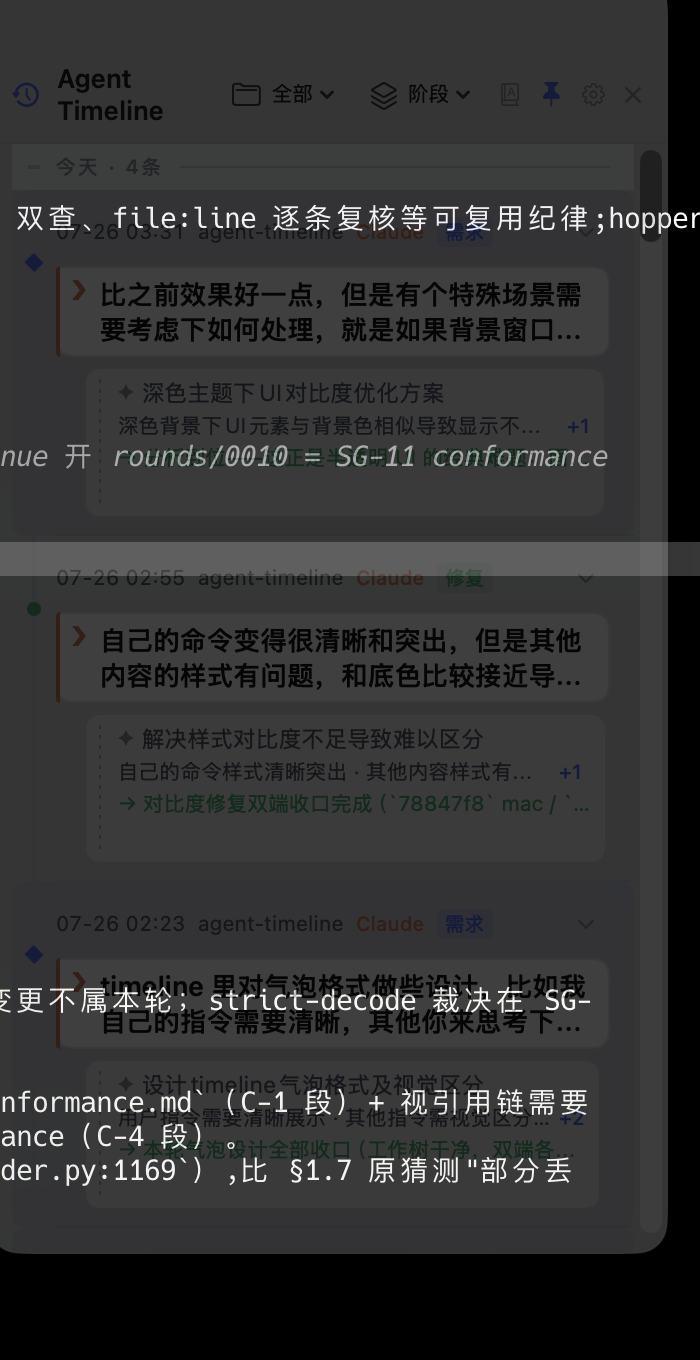
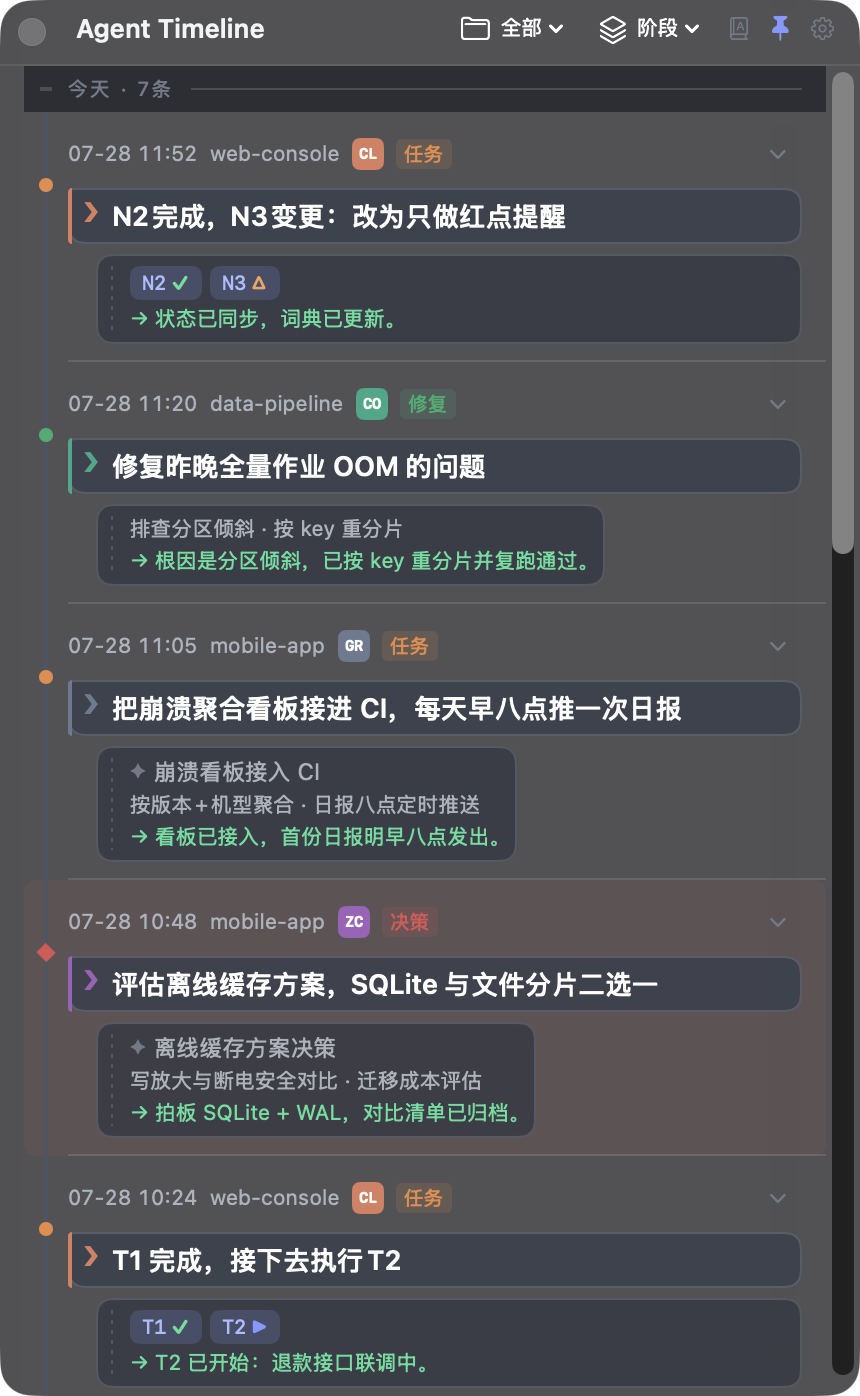
docs: 重拍 README 首图（五家 agent 演示数据，消除背景穿透）
旧图是 scrim 验证期的遗留截图：真实终端文字整片透过半透明面板，
既杂乱又暴露真实会话内容与项目名，违反公开截图的隐私红线。

- 演示数据集补一条 Grok 节点（12 条 / 5 agent × 4 项目），
  docs/DEMO-DATASET.md 与双端 demo-seed.py 同步，win 下次拍摄同源可复现
- 新首图：纯演示库 + 全屏纯色背板拍摄，五家徽标齐（CL/CO/GR/KI/ZC）、
  双墨线台账、kind 彩标、N2✓/N3△/T1✓/T2▶ 代号状态、决策菱形锚点
- 拍摄前后按纪律备份/还原真实 db 与设置，md5 与分 agent 计数逐项核验一致

diff --git a/windows/scripts/demo-seed.py b/windows/scripts/demo-seed.py
@@ -69,6 +69,11 @@ nodes = [
      "修复全量作业 OOM", kp("排查分区倾斜", "按 key 重分片"),
      "[]",
      "根因是分区倾斜，已按 key 重分片并复跑通过。", "修复"),
+    ("grok", "mobile-app", "ma-1", ms(7,27,11,5),
+     "把崩溃聚合看板接进 CI，每天早八点推一次日报",
+     "崩溃看板接入 CI", kp("按版本+机型聚合", "日报八点定时推送"),
+     "[]",
+     "看板已接入，首份日报明早八点发出。", "任务"),
     ("claude", "web-console", "wc-1", ms(7,27,11,52),
      "N2完成，N3变更：改为只做红点提醒",
      "", "[]",

diff --git a/macos/scripts/demo-seed.py b/macos/scripts/demo-seed.py
@@ -73,6 +73,11 @@ nodes = [
      "修复全量作业 OOM", kp("排查分区倾斜", "按 key 重分片"),
      "[]",
      "根因是分区倾斜，已按 key 重分片并复跑通过。", "修复"),
+    ("grok", "mobile-app", "ma-1", ts(0,11,5),
+     "把崩溃聚合看板接进 CI，每天早八点推一次日报",
+     "崩溃看板接入 CI", kp("按版本+机型聚合", "日报八点定时推送"),
+     "[]",
+     "看板已接入，首份日报明早八点发出。", "任务"),
     ("claude", "web-console", "wc-1", ts(0,11,52),
      "N2完成，N3变更：改为只做红点提醒",
      "", "[]",

diff --git a/docs/DEMO-DATASET.md b/docs/DEMO-DATASET.md
@@ -1,7 +1,7 @@
 # 演示数据集（README 截图专用，双端一致）
 
 > 公开截图**禁止使用真实时间线**（含真实项目名与命令原文）。两端拍摄一律灌注本数据集，
-> 内容完全虚构且覆盖全部展示特性：4 agent × 4 项目、六种 kind、代号生命周期全状态、
+> 内容完全虚构且覆盖全部展示特性：5 agent × 4 项目、六种 kind、代号生命周期全状态、
 > 关键点/结果行/✦ 提炼块。Windows 参考实现：`windows/scripts/demo-seed.py`
 > （Windows schema；mac 端按 `macos/Sources/AgentTimeline/Core/Store.swift` 的 schema 适配，
 > 内容以本文为准）。
@@ -9,7 +9,7 @@
 时间基准：D = 拍摄当天，D-1 = 前一天（保证时间线出现 今天/昨天 两个分组）。
 时区按本机本地时区。
 
-## 节点（11 条，倒序展示时今天在上）
+## 节点（12 条，倒序展示时今天在上）
 
 | # | agent | 项目 | 时间 | 命令原文 | 标题(规则档) | 关键点 | kind | 结果行 | 代号(JSON) |
 |---|---|---|---|---|---|---|---|---|---|
@@ -23,6 +23,7 @@
 | 8 | zcode | mobile-app | D 10:48 | 评估离线缓存方案，SQLite 与文件分片二选一 | 离线缓存方案决策 | 写放大与断电安全对比；迁移成本评估 | 决策 | 拍板 SQLite + WAL，对比清单已归档。 | — |
 | 9 | kimi | docs-site | D 9:50 | 把 FAQ 迁移到新目录结构，保留旧链接跳转 | FAQ 目录迁移 | 28 篇批量迁移；旧链接 301 跳转 | 其他 | 迁移完成，跳转规则已配置。 | — |
 | 10 | codex | data-pipeline | D 11:20 | 修复昨晚全量作业 OOM 的问题 | 修复全量作业 OOM | 排查分区倾斜；按 key 重分片 | 修复 | 根因是分区倾斜，已按 key 重分片并复跑通过。 | — |
+| 12 | grok | mobile-app | D 11:05 | 把崩溃聚合看板接进 CI，每天早八点推一次日报 | 崩溃看板接入 CI | 按版本+机型聚合；日报八点定时推送 | 任务 | 看板已接入，首份日报明早八点发出。 | — |
 | 11 | claude | web-console | D 11:52 | N2完成，N3变更：改为只做红点提醒 | （短命令，标题隐去） | — | 任务 | 状态已同步，词典已更新。 | N2 完成 / N3 变更 |
 
 ## 代号词典（6 条）

diff --git a/README.md b/README.md
@@ -12,7 +12,7 @@
 ![.NET](https://img.shields.io/badge/.NET-8-10A37F)
 [![License: MIT](https://img.shields.io/badge/license-MIT-86909C)](LICENSE)
 
-<img src="docs/assets/screenshot-dark.png" width="360" alt="Agent Timeline 半透明浮窗 · 暗色背景" />
+<img src="docs/assets/screenshot-dark.png" width="380" alt="Agent Timeline 半透明浮窗：五家 agent 混排、双墨线台账、代号状态徽章" />
 
 </div>
 
@@ -82,7 +82,7 @@ swift test                                # 48 项单测
 
 设置界面：[screenshot-macos-settings.png](docs/assets/screenshot-macos-settings.png)。两端同一演示数据集拍摄（[docs/DEMO-DATASET.md](docs/DEMO-DATASET.md)），视觉规范同源 `design/design-tokens.json`。
 
-> 截图摄于四家 agent 时期（v0.4.x）；Grok Build 于 v0.5.0 接入，界面结构不变、仅多一枚 `GR` 徽标。
+> 首图摄于 v0.5.0（五家 agent 混排）；上面两组「实机一览」摄于四家 agent 时期（v0.4.x），界面结构不变、仅多一枚 `GR` 徽标。
 
 ## 工作原理
 
